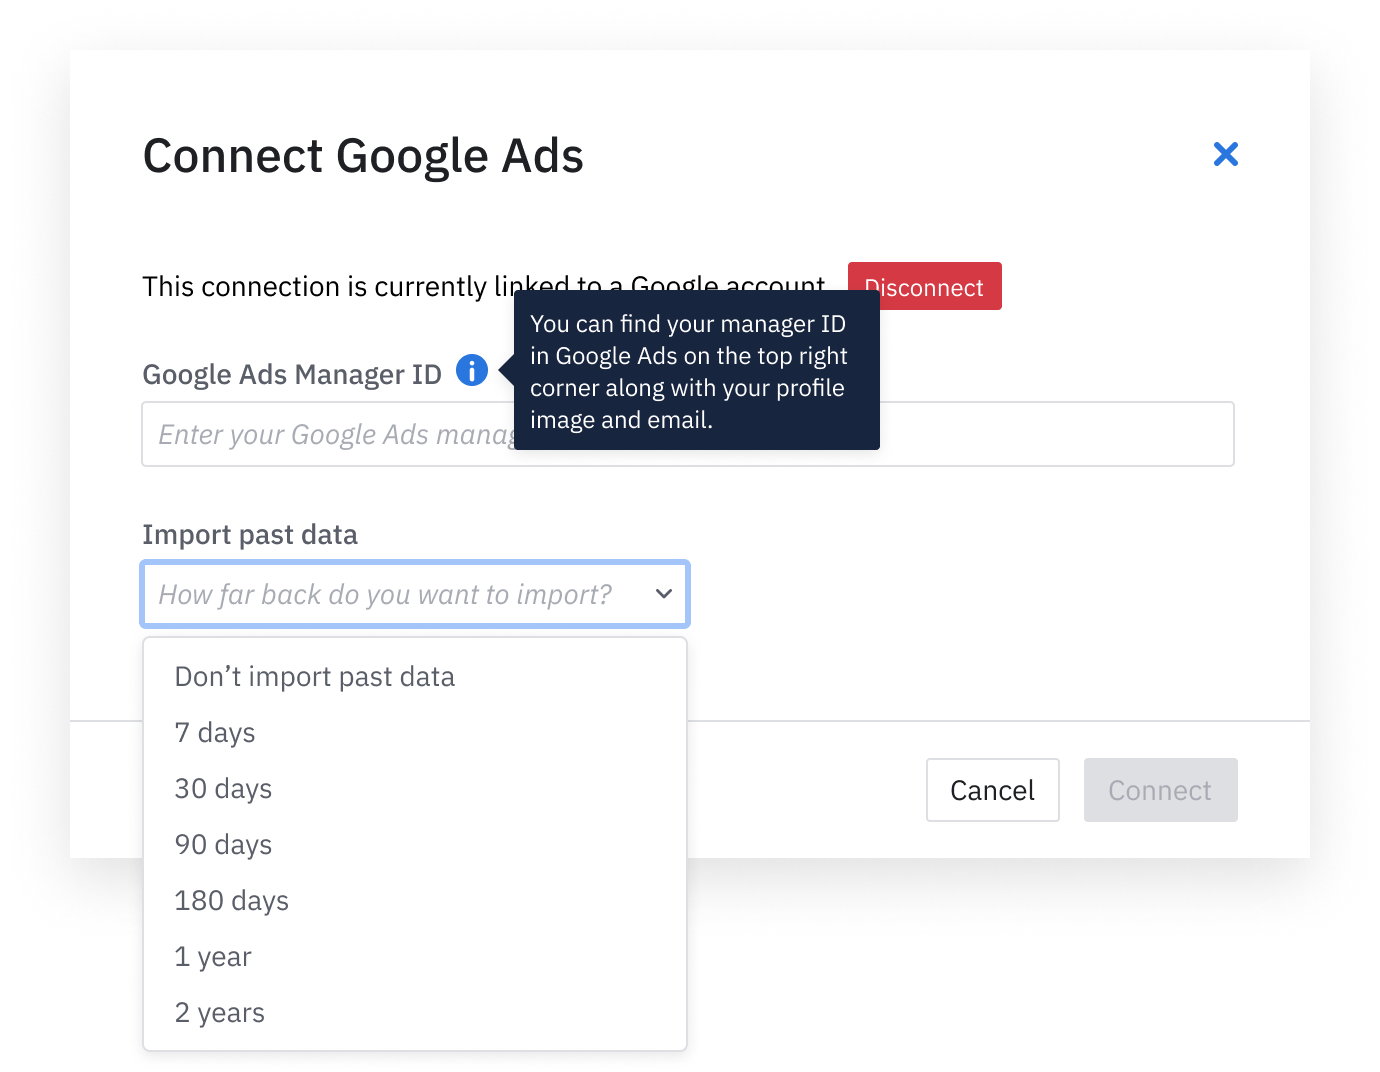
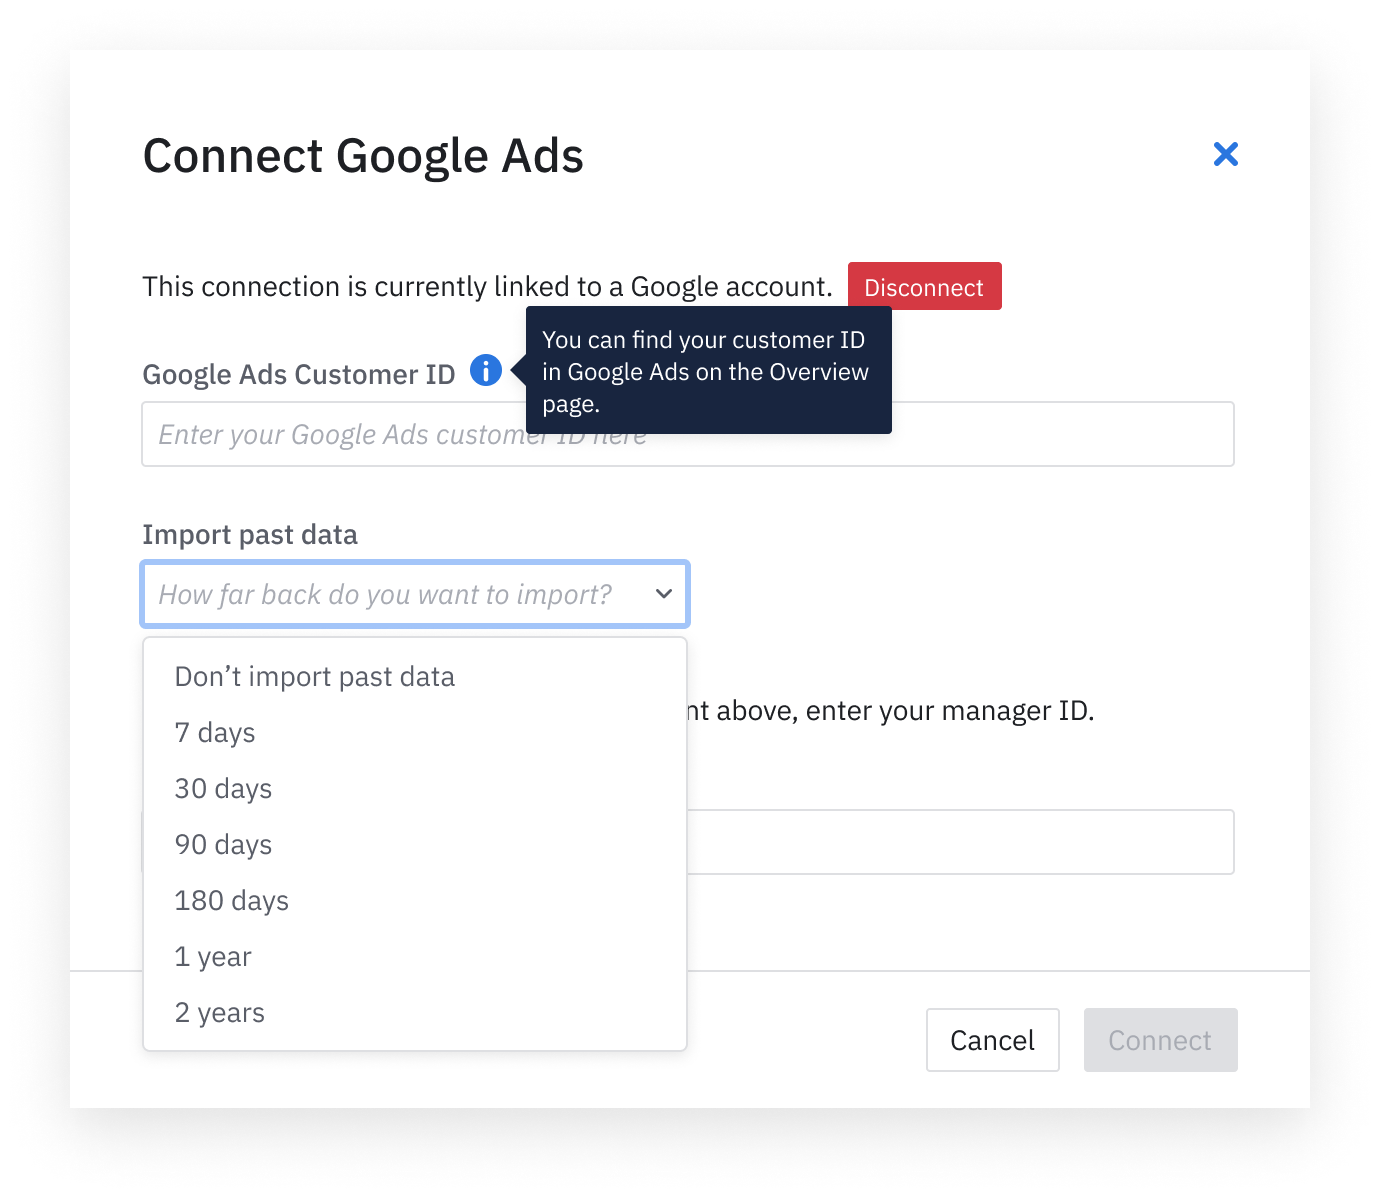
updated image and corrected working

diff --git a/docs/data/sources/google-ads.md b/docs/data/sources/google-ads.md
@@ -14,6 +14,7 @@ Amplitude Data's Google Ads integration lets you import your Google Ad spend, cl
 To set up, you need the following: 
 
 - `Google Ads Customer ID` of the ad account you would like imported (https://support.google.com/google-ads/answer/1704344?hl=en)
+- If you don't have direct access to the account, `Google Ads Manager ID` that you authorized access on which can view this ad account.
 
 ### Amplitude setup 
 
@@ -26,7 +27,8 @@ To set up, you need the following:
 
 2. Log into Google and grant Amplitude permission in the consent form.
 ![Google Login Image](../../assets/images/marketing-analytics/google-login.png)
-3. Enter the `Google Ads Customer ID` for all the ad accounts you would like to sync the data.
+3. Enter the `Google Ads Customer ID` for the ad account you would like to sync the data from.
 ![Google Enter Account ID](../../assets/images/marketing-analytics/google-enter-info.png)
-4. [Optional] You also have the option to do a one time iimport on the historical data in the time period of your choice.
+4. If you don't have direct access to the account, enter the `Manager ID` that you authorized access on which can view this ad account.  Otherwise, just leave the field as blank.
+5. [Optional] You also have the option to do a one time import on the historical data in the time period of your choice.
 ![Google Historical Backfill](../../assets/images/marketing-analytics/google-past-data.png)

diff --git a/docs/data/sources/facebook-ads.md b/docs/data/sources/facebook-ads.md
@@ -26,7 +26,7 @@ To set up, you need the following:
 
 2. Log into Facebook and grant Amplitude permission in the consent form.
 ![Facebook Login Image](../../assets/images/marketing-analytics/facebook-login.png)
-3. Enter the `Facebook Ads Account ID` for all the ad accounts you would like to sync the data.
+3. Enter the `Facebook Ads Account ID` for the ad account you would like to sync the data from.
 ![Facebook Enter Account ID](../../assets/images/marketing-analytics/facebook-enter-info.png)
-4. [Optional] You also have the option to do a one time iimport on the historical data in the time period of your choice.
+4. [Optional] You also have the option to do a one time import on the historical data in the time period of your choice.
 ![Facebook Historical Backfill](../../assets/images/marketing-analytics/facebook-past-data.png)
